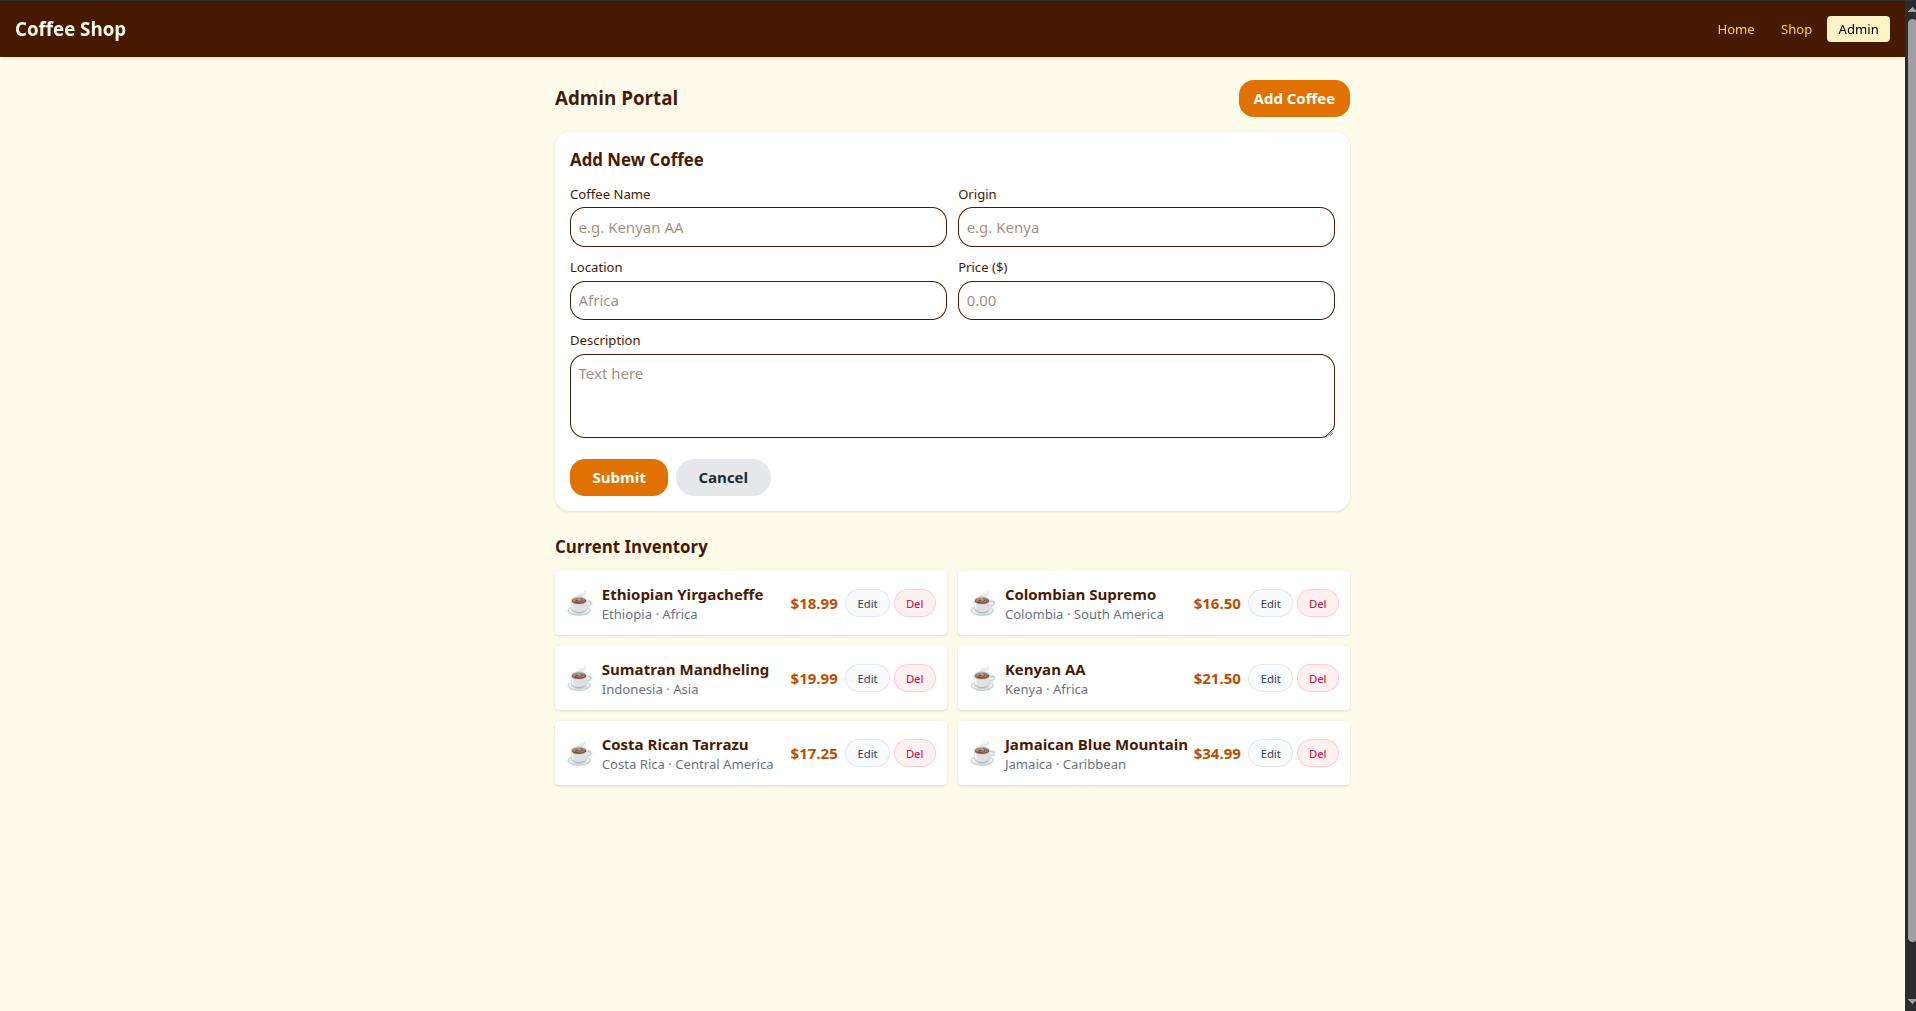
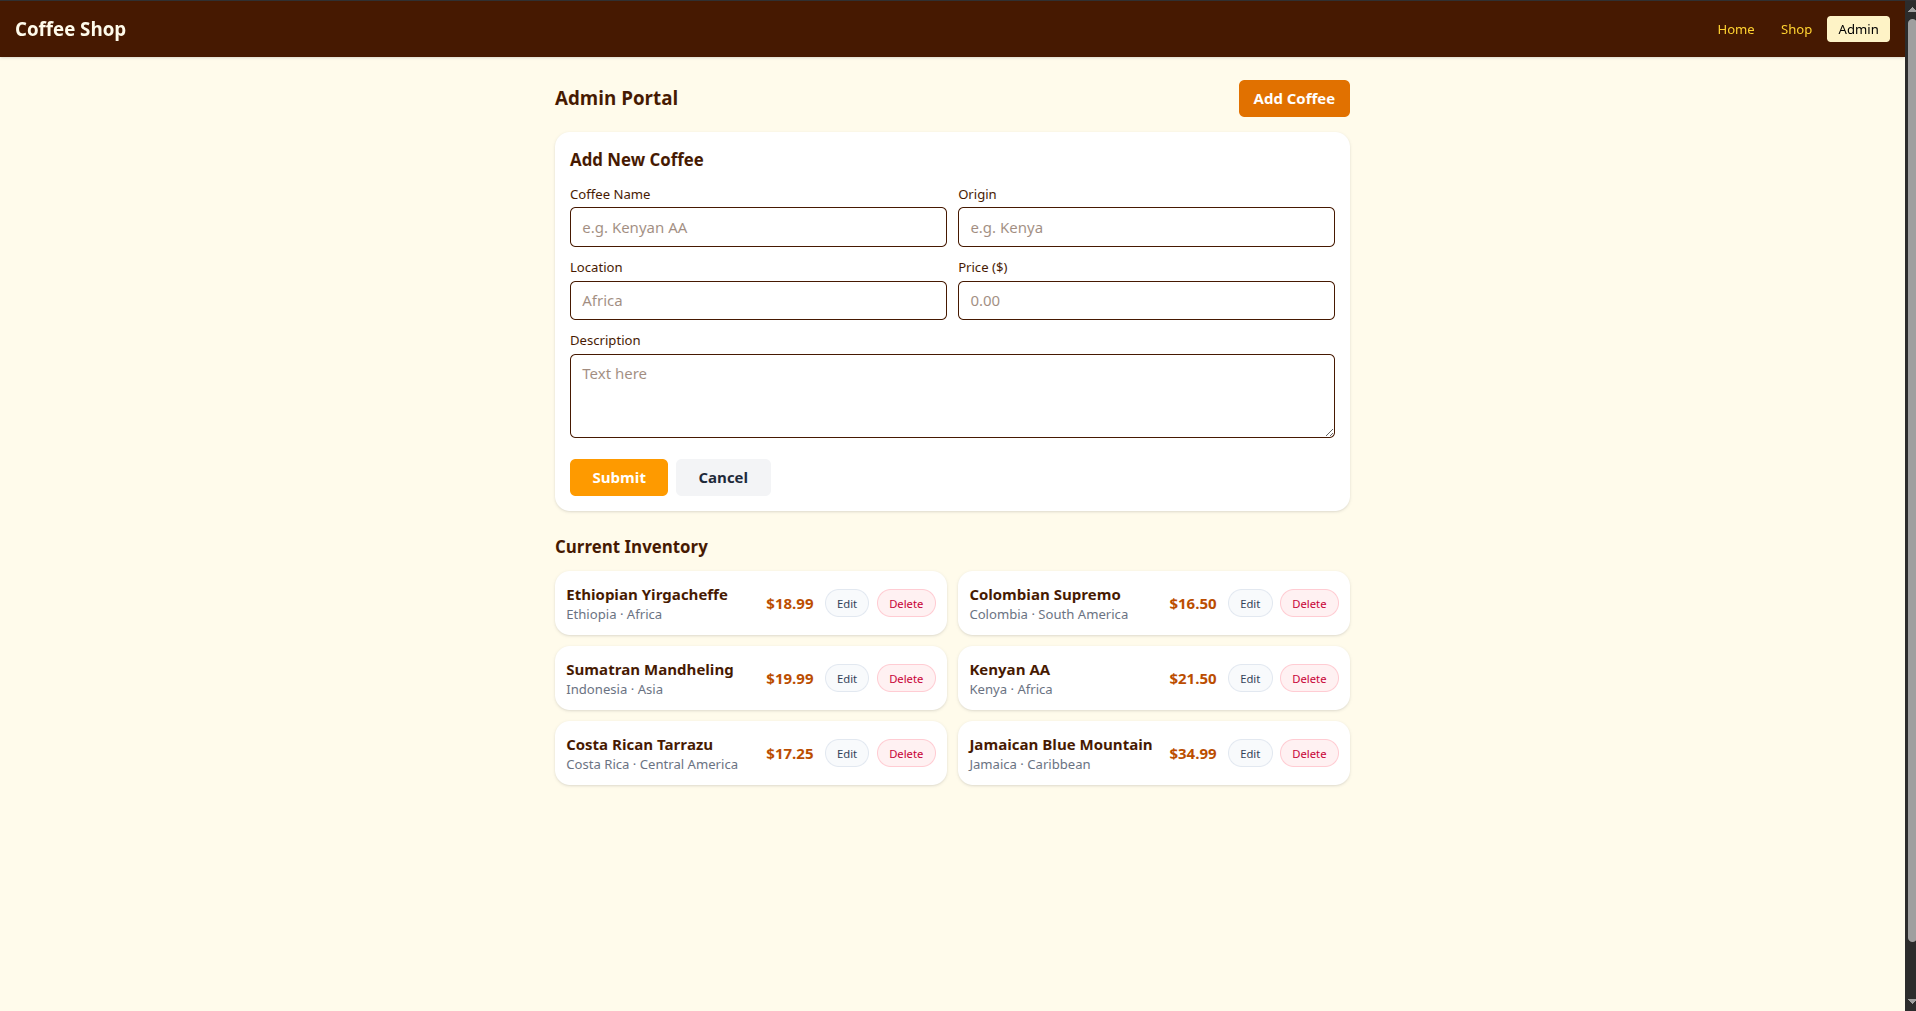
Added more styling

diff --git a/src/pages/AdminPage.jsx b/src/pages/AdminPage.jsx
@@ -55,7 +55,7 @@ function AdminPage({ products, onAdd, onUpdate, onDelete }) {
     <div className="min-h-screen max-w-4xl mx-auto p-6 font-sans">
       <div className="flex justify-between items-center mb-4">
         <h2 className="text-xl font-bold">Admin Portal</h2>
-        <button onClick={() => setIsAdding(true)} className="bg-amber-600 text-white px-4 py-2 rounded-2xl font-semibold hover:bg-amber-700">
+        <button onClick={() => setIsAdding(true)} className="bg-amber-600 text-white px-4 py-2 rounded-md font-semibold hover:bg-amber-700">
           Add Coffee
         </button>
       </div>
@@ -74,7 +74,7 @@ function AdminPage({ products, onAdd, onUpdate, onDelete }) {
                   placeholder="e.g. Kenyan AA"
                   value={form.name}
                   onChange={handleChange}
-                  className="w-full p-2 border rounded-2xl"
+                  className="w-full px-3 py-2 border rounded-md focus:outline-none focus:ring-2 focus:ring-blue-500 transition-colors duration-300"
                   required
                 />
               </div>
@@ -85,7 +85,7 @@ function AdminPage({ products, onAdd, onUpdate, onDelete }) {
                   placeholder="e.g. Kenya"
                   value={form.origin}
                   onChange={handleChange}
-                  className="w-full p-2 border rounded-2xl"
+                  className="w-full px-3 py-2 border rounded-md focus:outline-none focus:ring-2 focus:ring-blue-500 transition-colors duration-300"
                   required
                 />
               </div>
@@ -96,7 +96,7 @@ function AdminPage({ products, onAdd, onUpdate, onDelete }) {
                   placeholder="Africa"
                   value={form.location}
                   onChange={handleChange}
-                  className="w-full p-2 border rounded-2xl"
+                  className="w-full px-3 py-2 border rounded-md focus:outline-none focus:ring-2 focus:ring-blue-500 transition-colors duration-300"
                   required
                 />
               </div>
@@ -109,7 +109,7 @@ function AdminPage({ products, onAdd, onUpdate, onDelete }) {
                   value={form.price}
                   step={0.01}
                   onChange={handleChange}
-                  className="w-full p-2 border rounded-2xl"
+                  className="w-full px-3 py-2 border rounded-md focus:outline-none focus:ring-2 focus:ring-blue-500 transition-colors duration-300"
                   required
                 />
               </div>
@@ -122,15 +122,15 @@ function AdminPage({ products, onAdd, onUpdate, onDelete }) {
                 value={form.description}
                 onChange={handleChange}
                 rows="3"
-                className="w-full p-2 border rounded-2xl"
+                className="w-full px-3 py-2 border rounded-md focus:outline-none focus:ring-2 focus:ring-blue-500 transition-colors duration-300"
                 required
               />
             </div>
             <div className="flex gap-2 mt-4">
-              <button type="submit" className="bg-amber-600 text-white px-6 py-2 font-semibold hover:bg-amber-700 rounded-2xl">
+              <button type="submit" className="bg-amber-500 text-white px-6 py-2 font-semibold hover:bg-amber-600 rounded-md">
                 {editingId ? 'Update' : 'Submit'}
               </button>
-              <button type="button" onClick={cancelForm} className="bg-gray-200 text-gray-800 px-6 py-2 rounded-3xl font-semibold hover:bg-gray-300">
+              <button type="button" onClick={cancelForm} className="bg-gray-100 text-gray-800 px-6 py-2 rounded-md font-semibold hover:bg-gray-300">
                 Cancel
               </button>
             </div>
@@ -142,21 +142,20 @@ function AdminPage({ products, onAdd, onUpdate, onDelete }) {
         <h3 className="font-bold text-lg mb-3">Current Inventory</h3>
         <div className="grid md:grid-cols-2 gap-3">
           {products.map(p => (
-            <div key={p.id} className="bg-white p-3 rounded shadow flex justify-between items-center">
+            <div key={p.id} className="bg-white p-3 rounded-2xl shadow flex justify-between items-center">
               <div className="flex items-center gap-2">
-                <span className="text-2xl">☕</span>
                 <div>
                   <div className="font-bold">{p.name}</div>
                   <div className="text-gray-500 text-sm">{p.origin} · {p.location}</div>
                 </div>
               </div>
-              <div className="flex items-center gap-1">
+              <div className="flex items-center gap-2">
                 <span className="text-amber-700 font-bold mr-1">${p.price.toFixed(2)}</span>
                 <button onClick={() => startEdit(p)} className="rounded-full border border-slate-200 bg-slate-50 px-3 py-1.5 text-xs font-medium text-slate-700 transition hover:border-slate-300 hover:bg-slate">
                   Edit
                 </button>
                 <button onClick={() => onDelete(p.id)} className="rounded-full border border-rose-200 bg-rose-50 px-3 py-1.5 text-xs font-medium text-rose-700 transition hover:border-rose-300 hover:bg-rose-100">
-                  Del
+                  Delete
                 </button>
               </div>
             </div>

diff --git a/src/pages/HomePage.jsx b/src/pages/HomePage.jsx
@@ -11,21 +11,21 @@ function HomePage() {
           <p className="text-amber-200 text-lg mt-2">
             Discover the finest coffee beans from around the world.
           </p>
-          <Link to="/shop" className="inline-block mt-4 bg-amber-600 text-white px-6 py-2 rounded font-semibold hover:bg-amber-700">
+          <Link to="/shop" className="inline-block mt-4 bg-amber-600 text-white px-6 py-2 rounded-xl font-semibold hover:bg-amber-700">
             Shop Now
           </Link>
         </div>
       </div>
       <div className="grid md:grid-cols-3 gap-4">
-        <div className="bg-white p-4 rounded-2xl text-center shadow">
+        <div className="bg-white p-6 rounded-2xl text-center shadow">
           <h3 className="font-bold text-lg">Global Sourcing</h3>
           <p className="text-gray-500 text-sm">Directly sourced from the best coffee farms worldwide.</p>
         </div>
-        <div className="bg-white p-4 rounded-2xl text-center shadow">
+        <div className="bg-white p-6 rounded-2xl text-center shadow">
           <h3 className="font-bold text-lg">Fresh Roasting</h3>
           <p className="text-gray-500 text-sm">Roasted to perfection for the ultimate flavor experience.</p>
         </div>
-        <div className="bg-white p-4 rounded-2xl text-center shadow">
+        <div className="bg-white p-6 rounded-2xl text-center shadow">
           <h3 className="font-bold text-lg">Sustainable</h3>
           <p className="text-gray-500 text-sm">Supporting ethical and sustainable coffee farming.</p>
         </div>

diff --git a/src/pages/ShopPage.jsx b/src/pages/ShopPage.jsx
@@ -14,7 +14,7 @@ function ShopPage({ products }) {
     <div className="max-w-4xl mx-auto p-6 font-sans">
       <div className="flex justify-between items-center mb-4">
         <h2 className="text-xl font-bold">Our Coffee Selection</h2>
-        <div className="flex items-center bg-white border rounded-full px-2">
+        <div className="flex items-center bg-white border rounded-2xl px-2">
           <input
             type="text"
             placeholder="Search Coffee..."
@@ -29,7 +29,7 @@ function ShopPage({ products }) {
         {filtered.map((p) => (
           <div key={p.id} className="bg-white rounded-2xl shadow p-7">
             <div className="text-center text-4xl relative bg-gray-100 rounded p-4">
-              <span className="top-2 right-2 bg-black/70 text-white text-xs px-2 py-0.5 rounded-full">
+              <span className="top-2 right-2 bg-black/70 text-white text-xs px-2 py-2 rounded-xl">
                 {p.location}
               </span>
             </div>
